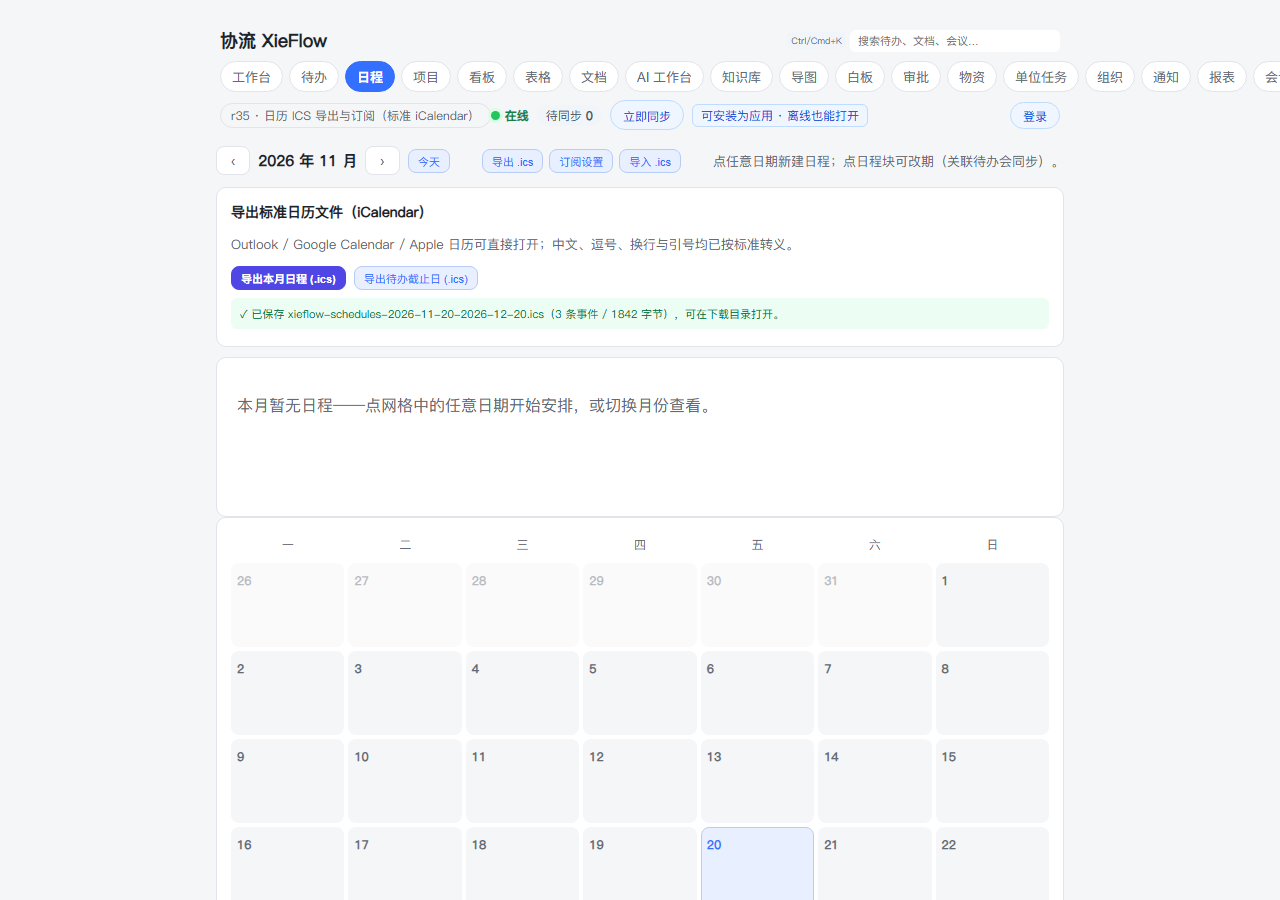
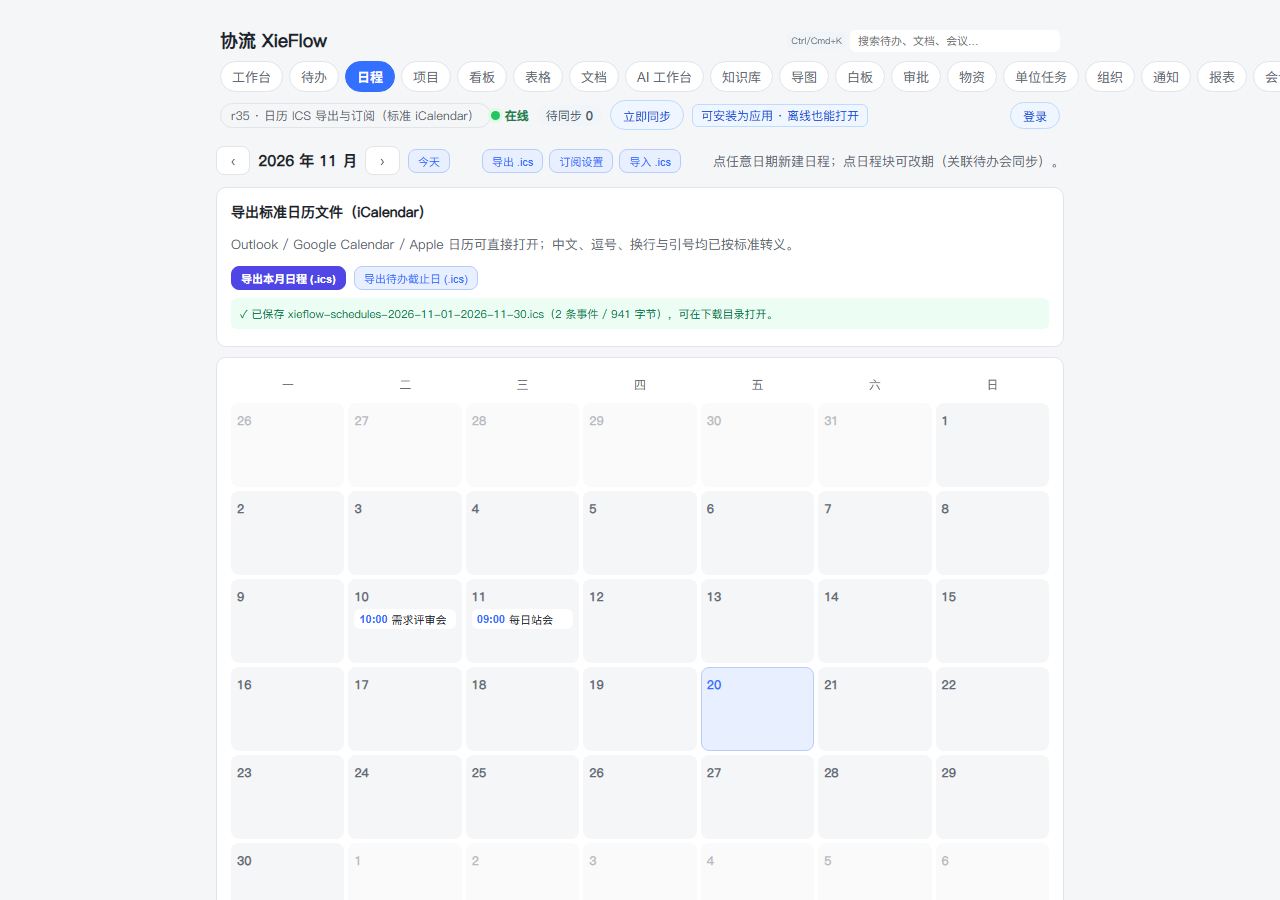
r35: 返工#1 02/04 同一落盘 ICS 2 事件往返重拍 + 07 去 audit 标签 + 索引/README 同提交

diff --git a/apps/web/src/SchedulesPage.tsx b/apps/web/src/SchedulesPage.tsx
@@ -190,7 +190,7 @@ export default function SchedulesPage() {
     () => shot === "ics-import-success" ? 2 : null,
   );
   const [icsError, setIcsError] = useState<string | null>(
-    () => shot === "ics-error" ? "ICS 解析失败：缺少 VCALENDAR 头尾（对应 audit「坏 ICS -> 400」）" : null,
+    () => shot === "ics-error" ? "ICS 解析失败：缺少 VCALENDAR 头尾，请粘贴完整 .ics 文件" : null,
   );
   const [icsBusy, setIcsBusy] = useState(false);
 

diff --git a/docs/ui/shell/README.md b/docs/ui/shell/README.md
@@ -1,4 +1,4 @@
-# docs/ui/shell · 十八 tab 壳激活态基线（r4 返工 #1 B 固化；r17 起十四 tab，r23 扩十五，r26 扩十六，r27 扩十七，r28 扩十八；r29/r30/r31/r32 同批重拍）
+# docs/ui/shell · 十八 tab 壳激活态基线（r4 返工 #1 B 固化；r17 起十四 tab，r23 扩十五，r26 扩十六，r27 扩十七，r28 扩十八；r29/r30/r31/r32/r33/r34/r35 同批重拍）
 
 > r2 U1-1（工作台）→ r3 U1-2（待办）→ r4 U1-1（工作台+待办+日程三页全漏）——
 > 「壳变更 → 继承页 tab 激活证据断档」三轮连漏后，ui-reviewer 建议固化为 shot.ps1
@@ -39,28 +39,35 @@
 > **r32 tab 数量仍不变（十八）**：文档页新增导出菜单（打印 / Word / HTML 打印版）、隐藏 iframe 打印 spy、
 > HTML / Word 落盘佐证面板，顶栏徽章推进 r32「文档打印导出增强（HTML 打印 + Word 兼容）」→
 > **十八张同批重拍**，docs 张同步新导出入口，与 r31 十八张同名文件全异。
-> 窄屏 390/488px 形态见 `docs/ui/r22/`、`docs/ui/r23/06-narrow.png`、`docs/ui/r24/06-narrow.png`、`docs/ui/r25/06-narrow.png`、`docs/ui/r26/06-narrow.png`、`docs/ui/r27/06-narrow.png`、`docs/ui/r28/06-narrow.png`、`docs/ui/r29/07-narrow.png`、`docs/ui/r30/06-narrow.png` 与 `docs/ui/r32/05-narrow.png`。
+> **r33 tab 数量仍不变（十八）**：顶栏加全局搜索框 / Ctrl+K 下拉检索面板，日程/会议页加深链定位条，
+> 徽章推进 r33「全局搜索（跨八源只读）」→ **十八张同批重拍**，与 r32 十八张同名文件全异。
+> **r34 tab 数量仍不变（十八）**：待办页加前置任务 / 阻塞链 / 循环错误入口 + 徽章推进
+> r34「任务依赖（前置阻塞与环检测）」→ **十八张同批重拍**，与 r33 十八张同名文件全异。
+> **r35 tab 数量仍不变（十八）**：日程页加 ICS 导出 / 订阅设置卡 / 导入预览面板 + 徽章推进
+> r35「日历 ICS 导出与订阅（标准 iCalendar）」→ **十八张同批重拍**，与 r34 十八张同名文件全异；
+> 返工 #1 只重拍 r35 矩阵 02/04/05/07 与改 07 用户文案，shell 渲染形态不变，十八壳字节沿用 r35 首轮。
+> 窄屏 390/488px 形态见 `docs/ui/r22/`、`docs/ui/r23/06-narrow.png`、`docs/ui/r24/06-narrow.png`、`docs/ui/r25/06-narrow.png`、`docs/ui/r26/06-narrow.png`、`docs/ui/r27/06-narrow.png`、`docs/ui/r28/06-narrow.png`、`docs/ui/r29/07-narrow.png`、`docs/ui/r30/06-narrow.png`、`docs/ui/r32/05-narrow.png`、`docs/ui/r33/06-search-narrow.png`、`docs/ui/r34/06-dep-narrow.png` 与 `docs/ui/r35/06-ics-narrow.png`。
 
 | 文件 | 形态 | 对应断言 |
 |---|---|---|
-| workbench-tab-active.png | 工作台激活（默认页；schema **v18** + 里程碑 M10 多端与单机版 + 服务模式卡「本机/远端」 + 多端同步卡 + r23 徽章 + 顶栏在线状态区 + 登录按钮） | e2e「r23 schema v16 / 外壳 seam」；audit「r23 health / mode / todos 路由契约」 |
-| todos-tab-active.png | 待办激活（?page=todos；四象限 + 计数卡 + 徽标 + r23 徽章） | audit「GET 列表 -> 200」+ summary 计数组端到端形态 |
-| schedules-tab-active.png | 日程激活（?page=schedules；月视图 + 今天高亮 + r23 徽章） | e2e「新库 schedules 为空」；audit「GET 空区间 -> 200」 |
-| projects-tab-active.png | 项目激活（?page=projects；空态 + 新建入口 + r23 徽章） | audit「GET /api/projects -> 200」空列表形态 |
-| board-tab-active.png | 看板激活（?page=board；无项目空态引导 + r23 徽章） | audit「GET /api/projects -> 200」空列表形态的看板侧消费 |
-| bases-tab-active.png | 表格激活（?page=bases；零表首次使用空态 + 空态文案「8 种字段类型齐备（含公式）」+「＋ 新建表」+ 十八药丸壳 + r31 徽章） | audit「r31 GET /api/tables -> 200」空列表形态；e2e「r31 空态文案八类 / 旧七类零残留」 |
-| docs-tab-active.png | 文档激活（?page=docs；零文档首次使用空态 + 工具栏「回收站 / 导入 Markdown / 导出 .md / 导出 ▾ / ＋ 新建文档 / 打印预览」+ 十八药丸壳 + r32 徽章） | audit「r29 GET 文档列表 / 回收站 -> 200」空列表形态；e2e「建文档默认首块自动在场 + 零版本」「r32 导出菜单 seam」 |
-| chat-tab-active.png | AI 工作台激活（?page=chat；真实 0 会话态三栏引导 + 12 工具目录 + r23 徽章） | audit「r11 GET /api/tools -> 200」；e2e「默认注册表恰 12 个工具」 |
-| knowledge-tab-active.png | 知识库激活（?page=knowledge；真实 0 篇文档态 + 入库引导 + 十五药丸 + r23 徽章） | audit「r12 GET 知识库文档列表 -> 200」空列表形态 |
-| mindmap-tab-active.png | 导图激活（?page=mindmap；真实 0 张导图态 + Markdown 源/树视图双栏空态 + r23 徽章） | audit「r14 清理后导图归零」；e2e「新库导图列表为空」 |
-| whiteboard-tab-active.png | 白板激活（?page=whiteboard；真实 0 张白板态 + 无限画布网格 + 工具条空态 + r23 徽章） | audit「r15 清理后白板归零」；e2e「新库白板列表为空」 |
-| approval-tab-active.png | 审批激活（?page=approval；真实 0 条审批态 + 三视角切换 + 空列表引导 + 选人入口 + r23 徽章） | audit「r16 清理后审批归零」；e2e「新库审批列表为空」 |
-| assets-tab-active.png | 物资激活（?page=assets；真实 0 笔物资态 + 左栏空列表引导 + 右栏未选引导 + r23 徽章；与 r23 同字节，折叠态无选人入口） | audit「r17 清理后物资归零」；e2e「新库物资列表为空」 |
-| unit-tasks-tab-active.png | 单位任务激活（?page=unit-tasks；真实 0 条任务态 + 「＋ 新建任务」入口 + 空树引导 + r23 徽章） | audit「r17 清理后任务归零」；e2e「空任务列表装配为空树」 |
-| org-tab-active.png | **组织激活（r23 新增）**（?page=org；真实 0 部门 0 人员空态 + 部门树面板 + 人员卡片面板 + 新建部门/人员入口 + r23 徽章） | audit「r23 GET /api/org/tree -> 200 且 tree=[] / members=[]」；e2e「r23 部门树 / 搜索 / schema v16」 |
-| notifications-tab-active.png | **通知激活（r26 新增）**（?page=notifications；零通知空态 + 六类筛选 + 计数口径图例 + 十六药丸壳 + r26 徽章） | e2e「r26 通知 tab / deep-link seam」；audit「GET /api/notifications 空列表」 |
-| reports-tab-active.png | **报表激活（r27 新增）**（?page=reports；六张 KPI 卡 + 时间范围 + 明细空态 + 十七药丸壳 + r27 徽章） | e2e「r27 十七 tab 类型含报表页 / 报表页消费 shared 口径」；audit「GET /api/reports/overview 空库六指标全 0」 |
-| meetings-tab-active.png | **会议激活（r28 新增）**（?page=meetings；零会议室 / 零成员空态：「还没有会议室——先在下方新建一间。」/「该日期暂无可用会议室。」/「通讯录暂无成员。」+ 十八药丸壳 + r28 徽章；各轮 shell 零数据最小集惯例，不是三室态） | e2e「r28 十八 tab 与顶栏按钮在场 / 会议页消费 shared 唯一口径」；audit「r28 清理后本轮会议归零」 |
+| workbench-tab-active.png | 工作台激活（默认页；schema **v18** + 里程碑 M10 多端与单机版 + 服务模式卡「本机/远端」 + 多端同步卡 + r35 徽章 + 顶栏在线状态区 + 登录按钮） | e2e「r23 schema v16 / 外壳 seam」；audit「r23 health / mode / todos 路由契约」 |
+| todos-tab-active.png | 待办激活（?page=todos；四象限 + 计数卡 + 徽标 + r35 徽章） | audit「GET 列表 -> 200」+ summary 计数组端到端形态 |
+| schedules-tab-active.png | 日程激活（?page=schedules；月视图 + 今天高亮 + 导出 .ics / 订阅设置 / 导入 .ics 三入口 + r35 徽章） | e2e「新库 schedules 为空 / r35 导出菜单 seam」；audit「GET 空区间 -> 200」 |
+| projects-tab-active.png | 项目激活（?page=projects；空态 + 新建入口 + r35 徽章） | audit「GET /api/projects -> 200」空列表形态 |
+| board-tab-active.png | 看板激活（?page=board；无项目空态引导 + r35 徽章） | audit「GET /api/projects -> 200」空列表形态的看板侧消费 |
+| bases-tab-active.png | 表格激活（?page=bases；零表首次使用空态 + 空态文案「8 种字段类型齐备（含公式）」+「＋ 新建表」+ 十八药丸壳 + r35 徽章） | audit「r31 GET /api/tables -> 200」空列表形态；e2e「r31 空态文案八类 / 旧七类零残留」 |
+| docs-tab-active.png | 文档激活（?page=docs；零文档首次使用空态 + 工具栏「回收站 / 导入 Markdown / 导出 .md / 导出 ▾ / ＋ 新建文档 / 打印预览」+ 十八药丸壳 + r35 徽章） | audit「r29 GET 文档列表 / 回收站 -> 200」空列表形态；e2e「建文档默认首块自动在场 + 零版本」「r32 导出菜单 seam」 |
+| chat-tab-active.png | AI 工作台激活（?page=chat；真实 0 会话态三栏引导 + 12 工具目录 + r35 徽章） | audit「r11 GET /api/tools -> 200」；e2e「默认注册表恰 12 个工具」 |
+| knowledge-tab-active.png | 知识库激活（?page=knowledge；真实 0 篇文档态 + 入库引导 + 十八药丸壳 + r35 徽章） | audit「r12 GET 知识库文档列表 -> 200」空列表形态 |
+| mindmap-tab-active.png | 导图激活（?page=mindmap；真实 0 张导图态 + Markdown 源/树视图双栏空态 + r35 徽章） | audit「r14 清理后导图归零」；e2e「新库导图列表为空」 |
+| whiteboard-tab-active.png | 白板激活（?page=whiteboard；真实 0 张白板态 + 无限画布网格 + 工具条空态 + r35 徽章） | audit「r15 清理后白板归零」；e2e「新库白板列表为空」 |
+| approval-tab-active.png | 审批激活（?page=approval；真实 0 条审批态 + 三视角切换 + 空列表引导 + 选人入口 + r35 徽章） | audit「r16 清理后审批归零」；e2e「新库审批列表为空」 |
+| assets-tab-active.png | 物资激活（?page=assets；真实 0 笔物资态 + 左栏空列表引导 + 右栏未选引导 + r35 徽章；折叠态无选人入口） | audit「r17 清理后物资归零」；e2e「新库物资列表为空」 |
+| unit-tasks-tab-active.png | 单位任务激活（?page=unit-tasks；真实 0 条任务态 + 「＋ 新建任务」入口 + 空树引导 + r35 徽章） | audit「r17 清理后任务归零」；e2e「空任务列表装配为空树」 |
+| org-tab-active.png | **组织激活（r23 新增）**（?page=org；真实 0 部门 0 人员空态 + 部门树面板 + 人员卡片面板 + 新建部门/人员入口 + r35 徽章） | audit「r23 GET /api/org/tree -> 200 且 tree=[] / members=[]」；e2e「r23 部门树 / 搜索 / schema v16」 |
+| notifications-tab-active.png | **通知激活（r26 新增）**（?page=notifications；零通知空态 + 六类筛选 + 计数口径图例 + 十八药丸壳 + r35 徽章） | e2e「r26 通知 tab / deep-link seam」；audit「GET /api/notifications 空列表」 |
+| reports-tab-active.png | **报表激活（r27 新增）**（?page=reports；六张 KPI 卡 + 时间范围 + 明细空态 + 十八药丸壳 + r35 徽章） | e2e「r27 十七 tab 类型含报表页 / 报表页消费 shared 口径」；audit「GET /api/reports/overview 空库六指标全 0」 |
+| meetings-tab-active.png | **会议激活（r28 新增）**（?page=meetings；零会议室 / 零成员空态：「还没有会议室——先在下方新建一间。」/「该日期暂无可用会议室。」/「通讯录暂无成员。」+ 十八药丸壳 + r35 徽章；各轮 shell 零数据最小集惯例，不是三室态） | e2e「r28 十八 tab 与顶栏按钮在场 / 会议页消费 shared 唯一口径」；audit「r28 清理后本轮会议归零」 |
 
 ## r25 哈希自查（十五张互异，历史块；当前文件见下方 R26 块）
 
@@ -232,9 +239,9 @@
 ## 机制说明
 
 - 拍摄入口：`scripts/shot.ps1` 的 `Invoke-ShellBaseline`（r4 返工 #1 加入；r8 由 6 扩 7，r10 扩 8，r12 扩 9，r14 扩 10，r15 扩 11，r16 扩 12，r17 扩 14；r18~r22 数量不变仍 14；**r23 扩 15，r26 扩 16，r27 扩 17，r28 扩 18**）。
-- 触发条件：`-Round r4` 及以后的 `shots` / `all` 动作（r1~r3 历史轮不回拍）；r21 因未改渲染层沿用 r20 字节，r22 补拍闭合口径，r23 因新增 tab 全量重拍，r25 因渲染层改动全量重拍，r26 与 r26 返工 #1 均因通知/日程/审批渲染层改动全量重拍，r27 因新增报表 tab 与徽章推进全量重拍，r28 因新增会议 tab 全量重拍，r29 因文档页版本历史侧栏 / 回收站入口 + 徽章推进全量重拍，r30 因表格页公式列 / 表达式面板 + 徽章推进全量重拍，r31 因表格页空态文案 / 浮点展示格式化 + 徽章推进全量重拍，r32 因文档页导出菜单 / 打印 iframe / HTML·Word 佐证面板 + 徽章推进全量重拍（tab 数仍 18）。
+- 触发条件：`-Round r4` 及以后的 `shots` / `all` 动作（r1~r3 历史轮不回拍）；r21 因未改渲染层沿用 r20 字节，r22 补拍闭合口径，r23 因新增 tab 全量重拍，r25 因渲染层改动全量重拍，r26 与 r26 返工 #1 均因通知/日程/审批渲染层改动全量重拍，r27 因新增报表 tab 与徽章推进全量重拍，r28 因新增会议 tab 全量重拍，r29 因文档页版本历史侧栏 / 回收站入口 + 徽章推进全量重拍，r30 因表格页公式列 / 表达式面板 + 徽章推进全量重拍，r31 因表格页空态文案 / 浮点展示格式化 + 徽章推进全量重拍，r32 因文档页导出菜单 / 打印 iframe / HTML·Word 佐证面板 + 徽章推进全量重拍，r33 因全局搜索顶栏 + 徽章推进全量重拍，r34 因待办前置任务/阻塞链 + 徽章推进全量重拍，r35 因日程页 ICS 导出/订阅/导入 + 徽章推进全量重拍（tab 数仍 18；返工 #1 只重拍 r35 矩阵 02/04/05/07，壳形态未变、十八壳沿用 r35 首轮字节）。
 - 落盘：本目录，文件名 `<tab>-tab-active.png`（与 App.tsx PageTab 一一对应；新增/改名 tab 时须同步脚本内 $tabs 清单）。
 - 认证页为独立路由、同步卡在工作台内、更多入口为底栏布局件，三者均不进 `$tabs`；「组织」是真 tab，r23 起进基线。
 - 同态说明：壳基线各张与各轮页面矩阵均不同字节；全库唯一残留同态组在 r4 目录内部
-  （`r4/01 = r4/16` = `9E5C0C23`、`r4/05 = r4/13` = `8397A028`），如实注记；**全库 306 PNG / 304 互异**（r32 新增 6 张矩阵，十八壳为替换同路径不增总数），r29/r30/r31/r32 均零新增同态组。
+  （`r4/01 = r4/16` = `9E5C0C23`、`r4/05 = r4/13` = `8397A028`），如实注记；**全库 327 PNG / 325 互异**（r35 新增 7 张矩阵，十八壳与返工 #1 的 4 张重拍均为替换同路径不增总数），r29~r35 均零新增同态组。
 - `mindmap-tab-active` 与 `docs/ui/r14/` 矩阵 02/03/04 分形：0 张导图空态 / Markdown 编辑态 / 树视图态 / 折叠态，四态互异。

diff --git a/docs/ui/r35/README.md b/docs/ui/r35/README.md
@@ -2,23 +2,24 @@
 
 - 轮次：r35（M10 后功能补强）。渲染层改动：日程页加「导出 .ics」菜单、落盘回执、订阅设置卡（生成/复制 URL）、导入预览表与确认写入、错误红条；**18 tab 数量不变**，十八 tab 壳基线因日程页变化同批重拍。
 - 拍法：`node scripts/run-ps1.js scripts/shot.ps1 shots -Round r35`（headless Edge 一次性进程，服务 `up/down` 收净；DB 走 `scripts/.tmp-r35shot/shot.db` scratch 库，仓库 `data/xieflow.db` 未作 DB_PATH）。七态用 `?shot=ics-*` 确定性钉态，与真实交互共用同一组件；运行时真值由 e2e / HTTP audit / CDP 全链路背书。
+- **返工 #1 往返 seam（可复拍）**：先 `XIEFLOW_DB_PATH` 指 scratch 库起服务，再 `node scripts/r35-rework-shot.mjs --browser "<Edge 路径>" --web-port 5173 --api-port 8787 --out-dir docs/ui/r35`（headless CDP，20 项断言全绿）：HTTP seed **固定 2 条不重复日程**（需求评审会 2026-11-10 10:00–11:00 / 每日站会 2026-11-11 09:00–09:30，日期取当前月）→ 真点「导出本月日程 (.ics)」落盘 → **直接读取下载目录里那份 .ics 文件**（941 字节 / 2 个 VEVENT，回执文件名 `xieflow-schedules-<月首>-<月末>.ics` 与磁盘文件名、字节数逐字相等）→ 把**同一份文件的字节**粘进导入 textarea → 真点「解析预览」/「确认写入」→ 逐张截 02 / 04 / 05；07 用去标签后的干净文案钉态。脚本自带浏览器进程与临时目录收净，不碰用户库。
 - 首用全链路：`node scripts/r35-firstuse-cdp.mjs --browser "<Edge 路径>" --web-port 5173 --api-port 8787`（headless CDP 真点导出→查看内容→预览→确认→reload）。
 
 <!-- R35_HASHES_BEGIN -->
-`01-ics-export-menu=DEF260B8` · `02-ics-saved=509440DD` · `03-ics-feed-card=03218775` ·
-`04-ics-import-preview=FF4C3C95` · `05-ics-import-success=DD24F464` · `06-ics-narrow=E87AA291` ·
-`07-ics-error=F87DB836` —— **7/7 互异**。
+`01-ics-export-menu=DEF260B8` · `02-ics-saved=4D6FF9AA` · `03-ics-feed-card=03218775` ·
+`04-ics-import-preview=829F87E4` · `05-ics-import-success=D65D12D3` · `06-ics-narrow=E87AA291` ·
+`07-ics-error=56133B31` —— **7/7 互异**（02/04/05/07 为返工 #1 真往返重拍，其余四张沿用 r35 首轮）。
 <!-- R35_HASHES_END -->
 
 | 图 | 形态 | 对应断言 / 证据 |
 |---|---|---|
 | [01-ics-export-menu.png](docs/ui/r35/01-ics-export-menu.png) | 导出菜单：本月日程 / 待办截止两个真下载按钮 | e2e「r35 web·导出菜单 seam 在场」；audit「GET export.ics -> 200 / text/calendar」 |
-| [02-ics-saved.png](docs/ui/r35/02-ics-saved.png) | 落盘佐证：文件名 + 事件数 + 字节数绿条 | audit「下载文件名带范围」「回读 VEVENT 字段」；CDP「saved receipt」 |
-| [03-ics-feed-card.png](docs/ui/r35/03-ics-feed-card.png) | 订阅设置卡：本地随机 key + 订阅 URL + 复制 | audit「key 存 settings」「正确 key 订阅源 200 / 错 key 404」 |
-| [04-ics-import-preview.png](docs/ui/r35/04-ics-import-preview.png) | 导入预览：解析事件数 + 标题/日期/时间/重复表 | e2e「r35 web·导入预览 seam」；audit「预览草稿逐项还原 / 零写入」 |
-| [05-ics-import-success.png](docs/ui/r35/05-ics-import-success.png) | 确认写入成功绿条 | audit「确认写入 +1 / 字段一致」；CDP「reload 不丢」 |
+| [02-ics-saved.png](docs/ui/r35/02-ics-saved.png) | 真落盘回执：文件名 `xieflow-schedules-2026-11-01-2026-11-30.ics` + **2 条事件** / 941 字节；下方网格可见 10 日「需求评审会」、11 日「每日站会」两枚 chip | audit「下载文件名带范围」「回读 VEVENT 字段」；CDP「saved receipt 文件名/字节 == 磁盘落盘文件」；**= 04 的导入源** |
+| [03-ics-feed-card.png](docs/ui/r35/03-ics-feed-card.png) | 订阅设置卡：本地随机 key + 订阅 URL + 复制 | audit「key 存 settings」「正确 key 订阅源 200 / 错 key 404」；「复制 URL」实现只写剪贴板、**无可见 toast 态**，故无反馈态截图（返工 U3-2 图注闭合） |
+| [04-ics-import-preview.png](docs/ui/r35/04-ics-import-preview.png) | 导入预览：**02 落盘文件 = 04 导入源**；textarea 同屏可见真实 ICS 片段 `BEGIN:VCALENDAR` / `VERSION:2.0` / `PRODID:-//XieFlow//Calendar//CN` / `CALSCALE:GREGORIAN`（非占位）；「解析到 **2 条事件**」表与 02 逐字段对应：需求评审会 2026-11-10 10:00–11:00、每日站会 2026-11-11 09:00–09:30，与 02 网格同标题/同日期 | e2e「r35 web·导入预览 seam」；audit「预览草稿逐项还原 / 零写入」；CDP「textarea 字节 == 02 下载文件（仅 DOM CRLF→LF 归一）」 |
+| [05-ics-import-success.png](docs/ui/r35/05-ics-import-success.png) | 确认写入成功绿条「已成功导入 2 条日程」；同屏网格**非空态**，11-10 / 11-11 各有两枚同名 chip（2 枚种子 + 2 枚导入，真点后 `load()` 刷新） | audit「确认写入 +1 / 字段一致」；CDP「success banner + reload 不丢 + 网格无『本月暂无日程』」 |
 | [06-ics-narrow.png](docs/ui/r35/06-ics-narrow.png) | 488×1100 `?narrow=1` 钉态：导入面板完整无溢出 | 矩阵↔壳 SHA 零重叠；窄屏按钮全宽 |
-| [07-ics-error.png](docs/ui/r35/07-ics-error.png) | 坏 ICS 错误红条（对应真 400 文案） | audit「4xx·坏 ICS -> 400」「错误文案含 ICS」 |
+| [07-ics-error.png](docs/ui/r35/07-ics-error.png) | 坏 ICS 错误红条：`ICS 解析失败：缺少 VCALENDAR 头尾，请粘贴完整 .ics 文件`（**无 audit「坏 ICS -> 400」内部标签**，审计对应关系只写在本图注） | audit「4xx·坏 ICS -> 400」「错误文案含 ICS」；CDP「可见文案无 audit/400」 |
 
-- 全库 **327 PNG / 325 互异**（r34 为 320/318，+7 = 本轮矩阵新增；18 壳为替换同路径不增总数）；同态组仅 r4 已披露 2 组，r35 零新增。
-- 矩阵↔壳 SHA256 交叉重叠 0；七张矩阵 + 十八张壳逐张 `read_image` 目验：无登录页 / 空白 / 乱码 / 裁切 / 塌陷；继承形态「窄容器页第 18 枚会议药丸右缘被截」仍见 5 张窄容器壳，属 r31~r34 已记账项，非 r35 回归。
+- 全库 **327 PNG / 325 互异**（r34 为 320/318，+7 = r35 首轮矩阵新增；返工 #1 为 02/04/05/07 同路径重拍，**不增总数**；18 壳为替换同路径亦不增总数）；同态组仅 r4 已披露 2 组，r35 零新增。
+- 矩阵↔壳 SHA256 交叉重叠 0；七张矩阵 + 十八张壳逐张 `read_image` 目验：无登录页 / 空白 / 乱码 / 裁切 / 塌陷；返工 #1 的 02/04/05/07 四张另经真往返 CDP 逐张目验（02 回执 ↔ 04 textarea+预览表同标题/同日期/同 2 条；05 网格非空；07 文案无内部标签）。继承形态「窄容器页第 18 枚会议药丸右缘被截」仍见 5 张窄容器壳，属 r31~r34 已记账项，非 r35 回归。

diff --git a/docs/feedback/2026-11-21-r35-yanfa.md b/docs/feedback/2026-11-21-r35-yanfa.md
@@ -78,3 +78,15 @@
 - 下一轮入口：waizhuan 按任务单复验——造中文/逗号/换行/引号日程真导出、用独立解析器打开逐字段比对、导出→导入逐字段相等、错 key/坏 ICS 4xx、刷新不丢；ui 阻断岗核三处索引与 R35 当前哈希块；通过后由 lead 收尾发版（版本号 / tag / push 均由 lead 执行，本 agent 未触碰）。
 
 **三态结论**：本轮任务单六项均已实现并验证；断言只涨不缩、变异红相留痕完整、渲染层证据同提交、精简版 README 只改三处、订阅 key 仅存 settings 且非凭据、全程 headless、危险区零触发。
+
+---
+
+## 返工 #1（2026-11-20 · yanfa-r35fix · lead 合并 UI U1 阻断 + U2/U3 低成本项）
+
+- **触发/范围**：`docs/feedback/2026-11-21-r35-ui.md` UI-VERDICT: 打回（U1-1：02↔04 非同一 ICS；U2-2：07 内嵌 audit 标签；U2-3：05 成功条与空网格并置；U3-1：shell README r35 口径陈旧；U3-2：03「复制 URL」反馈态无图）。只回证据与用户文案，**不改产品算法、不动任何断言**；唯一渲染层改动是 07 钉态文案（任务单明确许可的 B 项）。不 push / 不打 tag / 不发版。
+- **A · U1（发版阻断，已做并验过）**：新增 `scripts/r35-rework-shot.mjs`（headless CDP 真点，源码 ASCII）作为可复拍 seam：HTTP seed 当前月**固定 2 条不重复日程** → 真点「导出本月日程 (.ics)」→ 直接读取下载目录里那份 `xieflow-schedules-2026-11-01-2026-11-30.ics`（941 字节 / 2 VEVENT，回执文件名与磁盘文件名、字节数逐字相等）→ 把**同一份文件的字节**粘进导入 textarea → 真点解析预览/确认写入 → 重拍 02/04/05，07 用干净文案钉态。脚本 **20/20 检查全绿**（含 receipt count=2、下载文件 VEVENT=2、磁盘字节=回执字节、textarea 内容==落盘文件（仅 DOM CRLF→LF 归一）、预览 2 条且标题/日期与种子逐字段相等、成功条 + 网格非空、07 文案无 audit/400）。02 图可见文件名 + 2 条事件 + 941 字节 + 10/11 日两枚 chip；04 图 textarea 同屏可见真实头 `BEGIN:VCALENDAR`/`VERSION:2.0`/`PRODID:-//XieFlow//Calendar//CN`/`CALSCALE:GREGORIAN`（非纯占位），预览表 2 行与 02 同标题同日期。**02 落盘文件 = 04 导入源，2 条事件逐字段对应**已写入两处索引图注。
+- **B · U2（已做并验过）**：`apps/web/src/SchedulesPage.tsx` 第 193 行钉态文案改为 `ICS 解析失败：缺少 VCALENDAR 头尾，请粘贴完整 .ics 文件`（无内部标签）；07 重拍经 CDP 断言「可见文案无 audit/400」。05 重拍走真实确认写入路径，绿条「已成功导入 2 条日程」与同屏网格 10/11 日 chip 并存（2 枚种子 + 2 枚导入），`body.innerText` 不含「本月暂无日程」；图注如实说明 chip 来源，非伪造空态。
+- **C · U3（已做并验过）**：`docs/ui/shell/README.md` 标题演进补 r33/r34/r35、窄屏清单补 `r33/06-search-narrow.png`/`r34/06-dep-narrow.png`/`r35/06-ics-narrow.png`、18 行形态徽章推进 r35（含日程页三入口）、机制说明补 r33~r35、同态说明全库计数改 **327 PNG / 325 互异**；R35 当前哈希块未动。03「复制 URL」在两处索引图注注明实现只写剪贴板、无可见 toast，故无反馈态截图。
+- **截图与哈希（已做并验过）**：重拍 4 张 SHA256 前 8 位 `02=4D6FF9AA` · `04=829F87E4` · `05=D65D12D3` · `07=56133B31`；沿用 `01=DEF260B8` · `03=03218775` · `06=E87AA291`；**7/7 互异**，矩阵↔18 壳重叠 0，全库 327/325 不变（同路径重拍不增数）。四张新图逐张 `read_image` 目验，无乱码/裁切/塌陷；两处索引哈希块与图注同步。`docs/ui/shell/` 18 张因返工未改壳形态沿用 r35 首轮字节，已在索引注明。
+- **测试与卫生（已做并验过）**：`pnpm run test:all` 两次 EXIT=0（typecheck 5 包 Done；e2e **3069** / 失败 0；audit **2396** / 失败 0），规模与首轮逐字相同、零断言增删改；服务终态 8787/5173/8788/8791/8793 listen=0，scratch 库与浏览器临时目录全删，仓库 `data/xieflow.db` 全程未作 DB_PATH；全程 headless（`--headless=new` + 隐藏进程），无可见窗口；未 push / 未打 tag / 未发版。
+- **三态纪律**：上述 A/B/C + 截图目验 + 哈希亲算 + 全量测试 + 服务收净为「已做并验过」；waizhuan / ui 阻断岗对返工后证据的复审、三平台 CI 与 Release 资产核对为「没做（职责边界/lead 收尾）」；无「已做但没验」项。UI 审查报告 `docs/feedback/2026-11-21-r35-ui.md` 为并行岗产物，本 agent 未改、未替其提交。

diff --git a/README.md b/README.md
@@ -31,12 +31,12 @@ M0 立项 ✅ → M1 待办+日程 ✅ → M2 项目+看板 ✅ → M3 多维表
 | 截图 | 形态 | 对应断言 |
 |---|---|---|
 | [01-ics-export-menu.png](docs/ui/r35/01-ics-export-menu.png) | 导出菜单：本月日程 / 待办截止 | audit「GET export.ics -> 200 / text/calendar」 |
-| [02-ics-saved.png](docs/ui/r35/02-ics-saved.png) | 落盘回执：文件名 + 事件数 + 字节 | audit「下载文件名带范围 / VEVENT 回读」 |
-| [03-ics-feed-card.png](docs/ui/r35/03-ics-feed-card.png) | 订阅卡：本地随机 key + 复制 URL | audit「key 存 settings / 错 key 404」 |
-| [04-ics-import-preview.png](docs/ui/r35/04-ics-import-preview.png) | 导入预览表：标题/日期/时间/重复 | audit「预览逐项还原 / 零写入」 |
-| [05-ics-import-success.png](docs/ui/r35/05-ics-import-success.png) | 确认写入成功绿条 | audit「写入 +1 / reload 不丢（CDP）」 |
+| [02-ics-saved.png](docs/ui/r35/02-ics-saved.png) | 真落盘回执：`xieflow-schedules-2026-11-01-2026-11-30.ics` + 2 条事件 / 941 字节（**= 04 导入源**） | audit「下载文件名带范围 / VEVENT 回读」；CDP 落盘文件字节一致 |
+| [03-ics-feed-card.png](docs/ui/r35/03-ics-feed-card.png) | 订阅卡：本地随机 key + 复制 URL（仅写剪贴板、无可见 toast） | audit「key 存 settings / 错 key 404」 |
+| [04-ics-import-preview.png](docs/ui/r35/04-ics-import-preview.png) | 02 同一落盘文件导入：textarea 真实 ICS 片段 + 2 条预览与 02 逐字段对应 | audit「预览逐项还原 / 零写入」；CDP 往返逐字核验 |
+| [05-ics-import-success.png](docs/ui/r35/05-ics-import-success.png) | 成功绿条 2 条 + 同屏网格非空（10/11 日 chip 在场） | audit「写入 +1 / reload 不丢（CDP）」 |
 | [06-ics-narrow.png](docs/ui/r35/06-ics-narrow.png) | 488px 窄屏导入面板 | 截图 seam + SHA 自查 |
-| [07-ics-error.png](docs/ui/r35/07-ics-error.png) | 坏 ICS 错误红条 | audit「坏 ICS -> 400」 |
+| [07-ics-error.png](docs/ui/r35/07-ics-error.png) | 坏 ICS 错误红条（纯用户文案，无 audit 标签） | audit「坏 ICS -> 400」 |
 | [shell/](docs/ui/shell/README.md) | 十八 tab 壳基线（r35 同批重拍） | e2e「shell README R35 哈希逐字一致」 |
 
 **历史逐轮截图索引（r1~r32 全量、逐张对照断言）见 [README 归档](docs/README-ARCHIVE.md) 与 [docs/ui/](docs/ui/) 各轮 README**；矩阵 SHA256 互异、同态组仅 r4 已披露 2 组。
